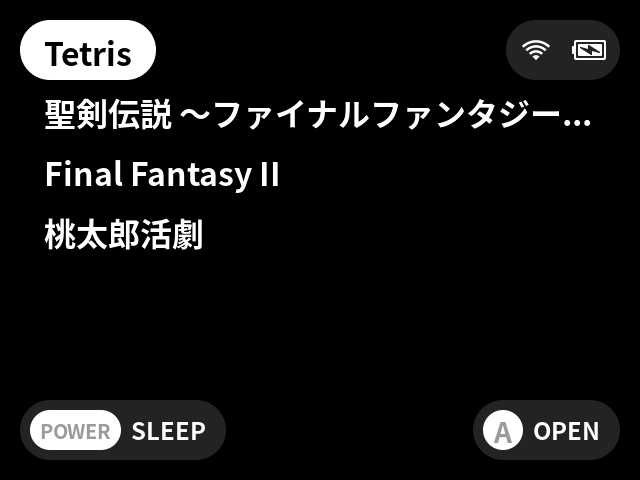
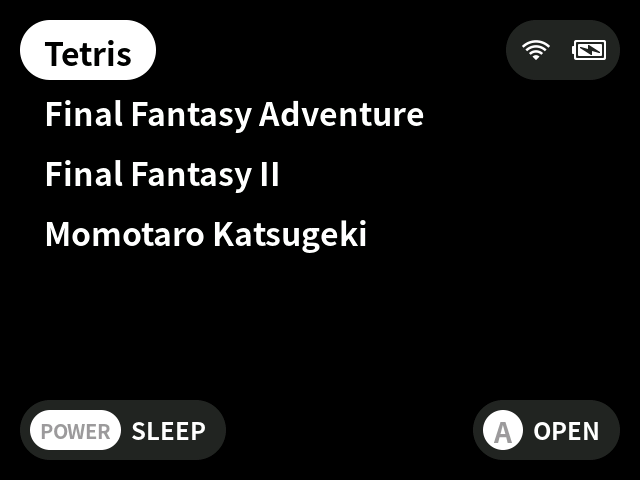
Localize Game Focus Mode screenshots

Changed region(s): [[0.0625, 0.1875, 0.875, 0.2812], [0.0625, 0.4375, 0.5938, 0.5312], [0.875, 0.25, 0.9375, 0.2812]]

diff --git a/README.md b/README.md
@@ -41,17 +41,25 @@ Japanese UI:
 - Auto sleep after 30 seconds; manual sleep / wake shortcut depends on device
 - Resumes from the previous running state on power on
 
+## Documentation
+
+- [Box Art](https://github.com/retronian/UnuOS/wiki/Box-Art)
+- [Collections](https://github.com/retronian/UnuOS/wiki/Collections)
+- [Game Focus Mode](https://github.com/retronian/UnuOS/wiki/Game-Focus-Mode)
+- [Screenshots](https://github.com/retronian/UnuOS/wiki/Screenshots)
+- [Localization](https://github.com/retronian/UnuOS/wiki/Localization)
+
 ## Additions from MinUI
 
 UnuOS is a fork of [MinUI](https://github.com/shauninman/MinUI). The following are UnuOS-specific additions on top of the MinUI base.
 
-- **Multi-language UI.** Launcher strings, Tools menu, and libretro frontend options are translated into 7 languages (English, Japanese, Simplified Chinese, Traditional Chinese, Korean, French, Spanish). The language is selected in Settings.
+- **[Multi-language UI](https://github.com/retronian/UnuOS/wiki/Localization).** Launcher strings, Tools menu, and libretro frontend options are translated into 7 languages (English, Japanese, Simplified Chinese, Traditional Chinese, Korean, French, Spanish). The language is selected in Settings.
 - **CJK font rendering.** Bundled Noto Sans CJK fonts render Japanese, Simplified/Traditional Chinese, and Korean ROM names correctly.
 - **UTF-8 safe text truncation.** MinUI's ROM name truncation cut text on byte boundaries, which corrupted (and could crash on) multi-byte characters. UnuOS truncates on codepoint boundaries.
-- **Cover art, as a first-class feature.** Put a PNG next to a ROM or folder: `<rom path>/.res/<rom name>.png`. The image is shown on the right side of the launcher when the item is selected. Recommended size: 240x240 max, PNG with transparency. Works for folders too (main platform list). Legacy `<rom file>.png` names are still supported as a fallback.
-- **Collections, as a first-class feature.** Create `Collections/<name>.txt` on the SD card containing absolute ROM paths (one per line). The collection appears in the root launcher list and groups ROMs from any console into a single browsable list. Cover art (`Collections/.res/<name>.png`) is supported, with legacy `Collections/.res/<name>.txt.png` names supported as a fallback.
-- **Game Focus Mode.** Create `Collections/Selection.txt` on the SD card to show only the games listed in that collection. Settings, Tools, Collections, Recently Played, and system folders are hidden while the file exists.
-- **Native in-app screenshot.** Hold SELECT + press START anywhere in the launcher or during gameplay to write `Screenshots/YYYY-MM-DD_HH-MM-SS.bmp` to the SD card.
+- **[Cover art](https://github.com/retronian/UnuOS/wiki/Box-Art), as a first-class feature.** Put a PNG next to a ROM or folder: `<rom path>/.res/<rom name>.png`. The image is shown on the right side of the launcher when the item is selected. Recommended size: 240x240 max, PNG with transparency. Works for folders too (main platform list). Legacy `<rom file>.png` names are still supported as a fallback.
+- **[Collections](https://github.com/retronian/UnuOS/wiki/Collections), as a first-class feature.** Create `Collections/<name>.txt` on the SD card containing absolute ROM paths (one per line). The collection appears in the root launcher list and groups ROMs from any console into a single browsable list. Cover art (`Collections/.res/<name>.png`) is supported, with legacy `Collections/.res/<name>.txt.png` names supported as a fallback.
+- **[Game Focus Mode](https://github.com/retronian/UnuOS/wiki/Game-Focus-Mode).** Create `Collections/Selection.txt` on the SD card to show only the games listed in that collection. Settings, Tools, Collections, Recently Played, and system folders are hidden while the file exists.
+- **[Native in-app screenshot](https://github.com/retronian/UnuOS/wiki/Screenshots).** Hold SELECT + press START anywhere in the launcher or during gameplay to write `Screenshots/YYYY-MM-DD_HH-MM-SS.bmp` to the SD card.
 - **Tools menu localization.** Bundled Tools entries (ADBD, Bootlogo, Clock, Files, Input, IP, Remove Loading, Toggle 560p) are shown with localized names instead of their raw `.pak` directory names.
 - **Boot logo tools.** Supported devices include a one-shot Bootlogo tool for flashing the bundled or user-supplied startup logo.
 - **ZIP data descriptor support.** MinUI's ZIP loader failed on archives that used ZIP data descriptor mode (bit flag `0x0008`), which is common for Game Boy ROM dumps produced by some tools. UnuOS detects the flag and streams inflate until `Z_STREAM_END`.
